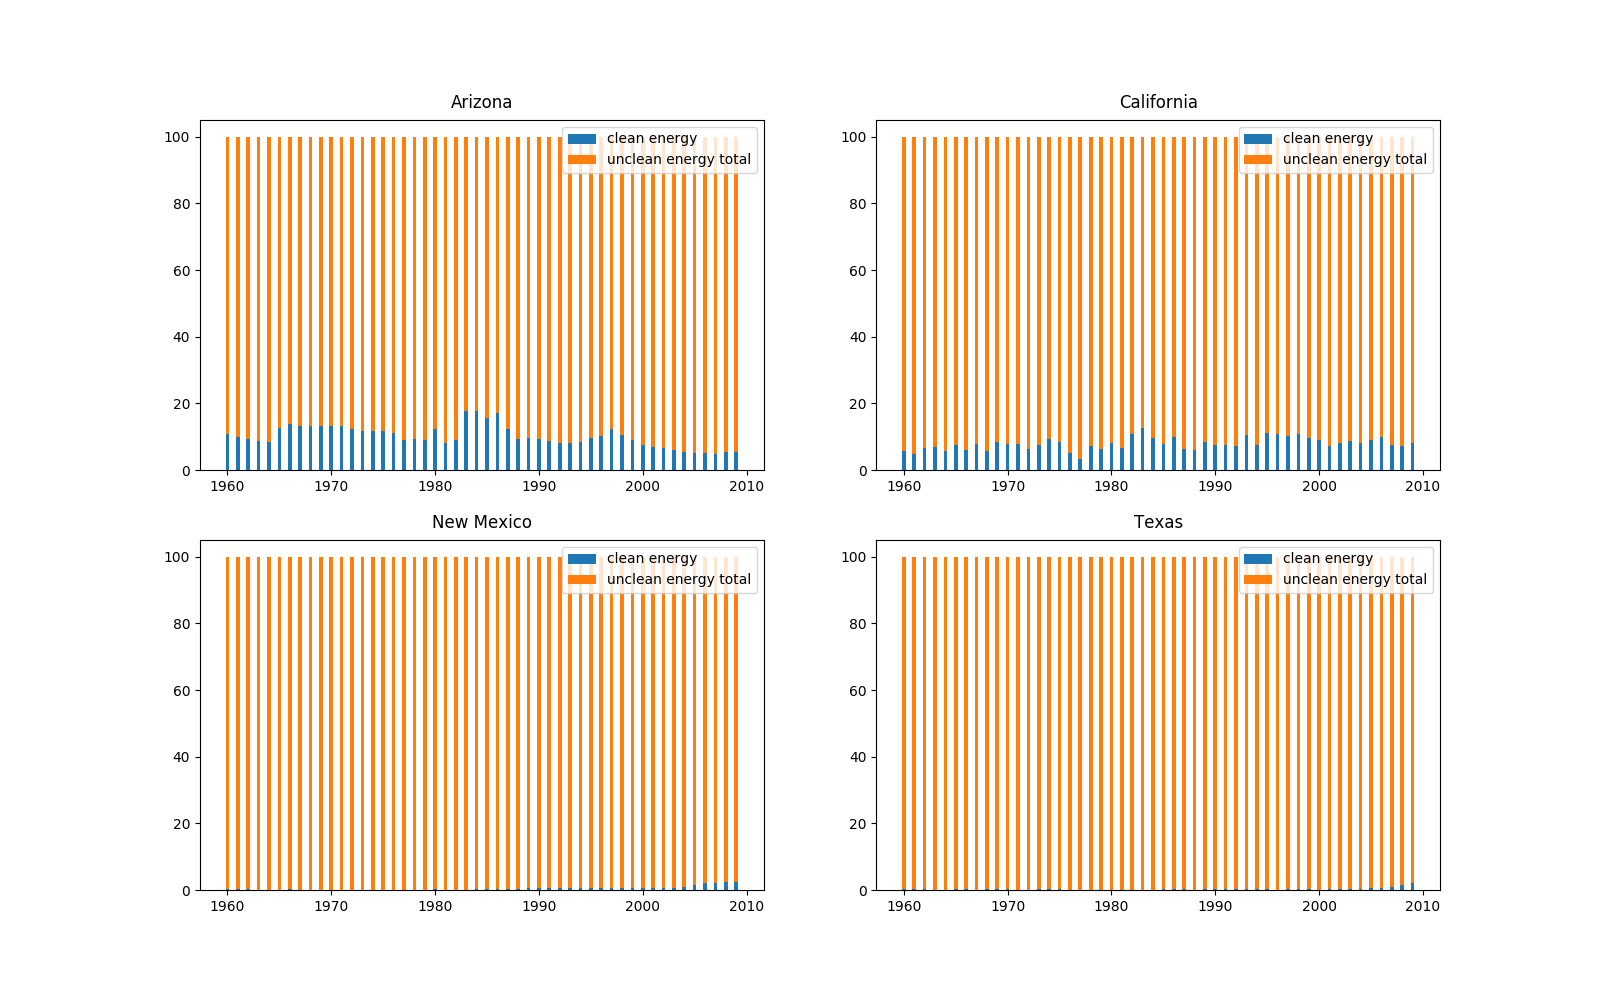
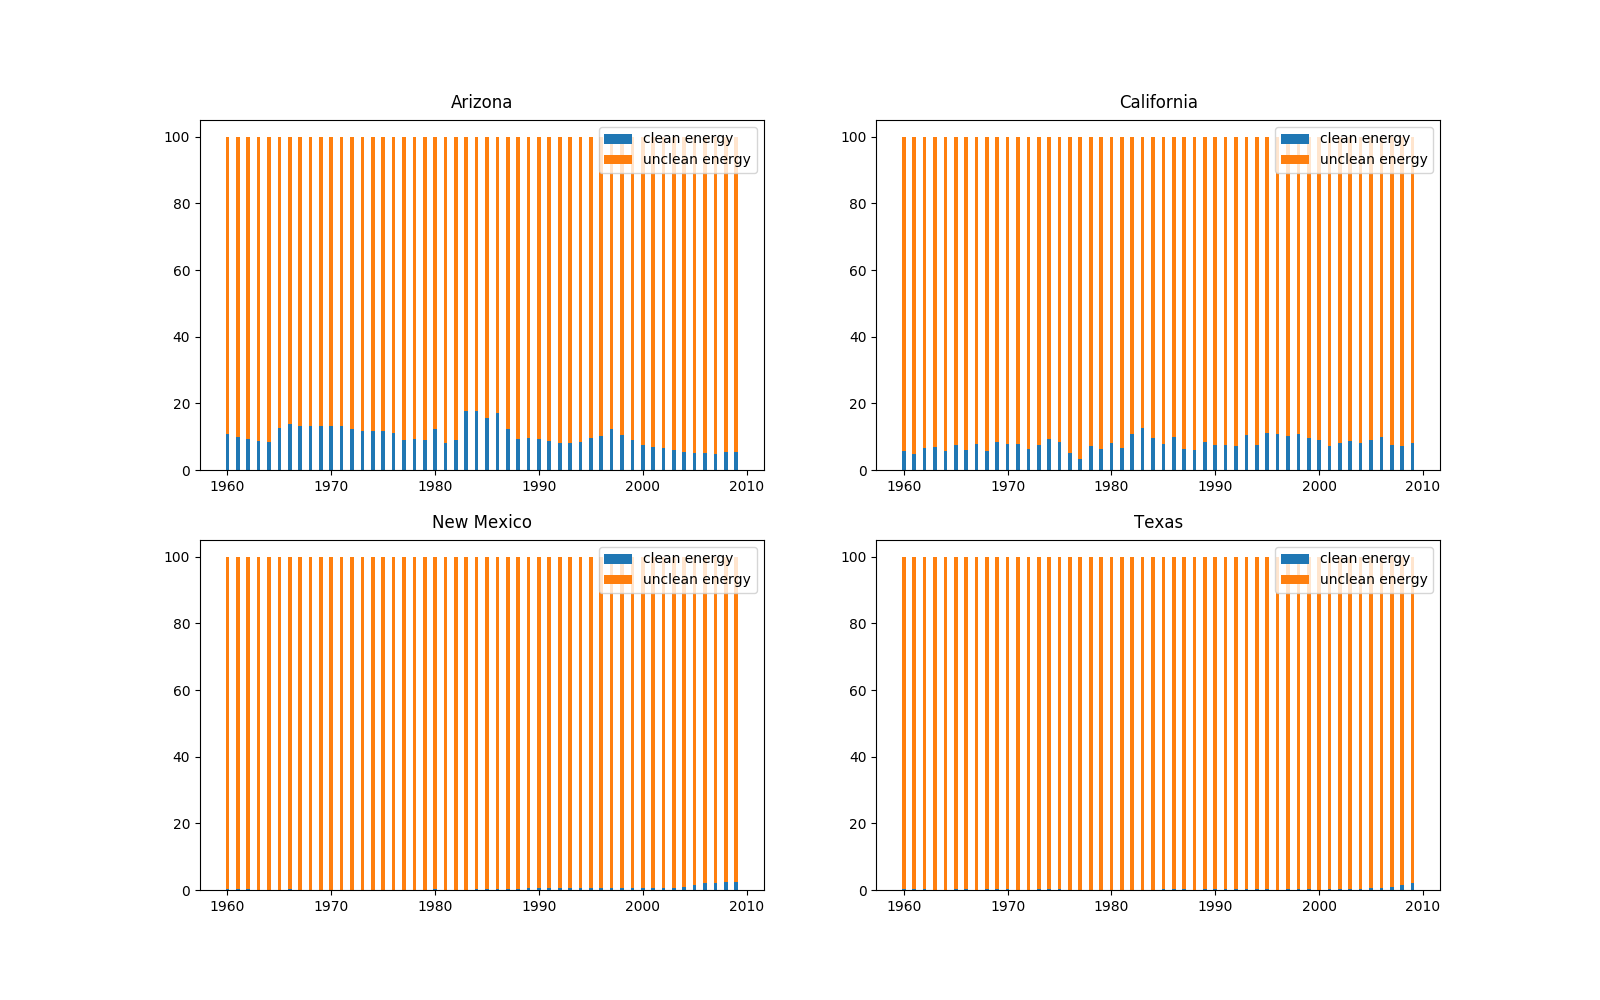
change tag 'unclean energy total' to 'unclean energy'

diff --git a/data/analysis/plot_fig.py b/data/analysis/plot_fig.py
@@ -2,6 +2,10 @@ from analysis import *
 
 replot_plotted = False
 
+plot_percentage_stacked_bar_chart(
+	'cleanliness',
+	['clean energy', 'unclean energy']
+	)
 # plotted
 if replot_plotted == True:
 	plot_stacked_bar_chart_by_matrix(
@@ -27,10 +31,6 @@ if replot_plotted == True:
 	plot_tag_unit(
 		'TE', 'T', 'Million Btu', ylabel = 'Total energy per capita')
 
-	plot_percentage_stacked_bar_chart(
-		'cleanliness',
-		['clean energy', 'unclean energy total']
-		)
 
 	plot_stacked_bar_chart_by_matrix(
 		get_matrix('Energy type', ['TN', 'TE']) - 
